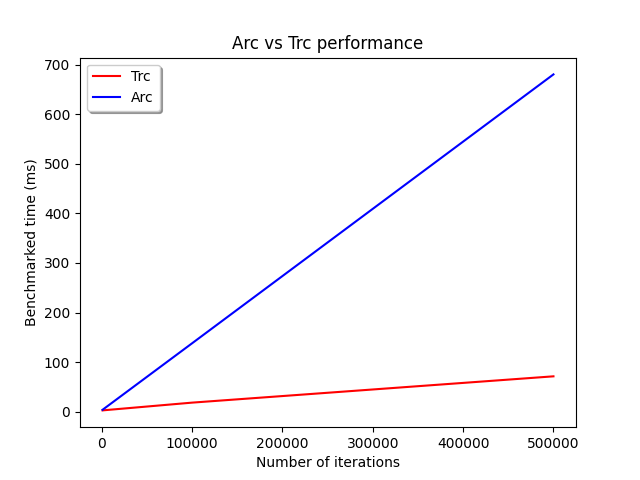
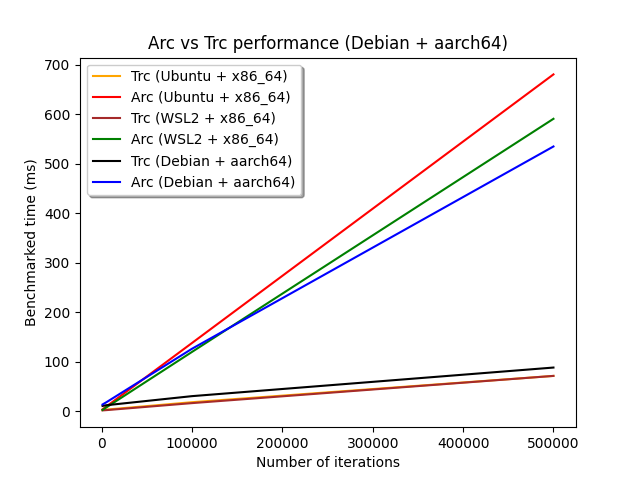
Better performance graph

diff --git a/figures/perfplot.py b/figures/perfplot.py
@@ -4,6 +4,46 @@ plt.plot([1000, 5000, 100000, 500000], [2.8, 3.48, 18.451, 71.49], color = "red"
 plt.plot([1000, 5000, 100000, 500000], [4.02, 9.415, 137.980, 680.18], color = "blue")
 plt.ylabel("Benchmarked time (ms)")
 plt.xlabel("Number of iterations")
-plt.title("Arc vs Trc performance")
+plt.title("Arc vs Trc performance (Ubuntu + x86_64)")
 plt.legend(("Trc","Arc"), shadow=True, fancybox=True)
-plt.show()
+plt.savefig("ubuntu_x84_64.png")
+plt.clf()
+
+plt.plot([1000, 5000, 100000, 500000], [10.945, 12.3, 30.666, 88.387], color = "red")
+plt.plot([1000, 5000, 100000, 500000], [13.854, 18.104, 126.330, 534.67], color = "blue")
+plt.ylabel("Benchmarked time (ms)")
+plt.xlabel("Number of iterations")
+plt.title("Arc vs Trc performance (WSL2 + x86_64)")
+plt.legend(("Trc","Arc"), shadow=True, fancybox=True)
+plt.savefig("wsl2_x84_64.png")
+plt.clf()
+
+plt.plot([1000, 5000, 100000, 500000], [1.883, 2.424, 16.585, 71.543], color = "red")
+plt.plot([1000, 5000, 100000, 500000], [2.913, 7.672, 119.950, 590.530], color = "blue")
+plt.ylabel("Benchmarked time (ms)")
+plt.xlabel("Number of iterations")
+plt.title("Arc vs Trc performance (Debian + aarch64)")
+plt.legend(("Trc","Arc"), shadow=True, fancybox=True)
+plt.savefig("debian_aarch64.png")
+plt.clf()
+
+
+
+
+
+
+plt.plot([1000, 5000, 100000, 500000], [2.8, 3.48, 18.451, 71.49], color = "orange")
+plt.plot([1000, 5000, 100000, 500000], [4.02, 9.415, 137.980, 680.18], color = "r")
+plt.plot([1000, 5000, 100000, 500000], [1.883, 2.424, 16.585, 71.543], color = "brown")
+plt.plot([1000, 5000, 100000, 500000], [2.913, 7.672, 119.950, 590.530], color = "g")
+plt.plot([1000, 5000, 100000, 500000], [10.945, 12.3, 30.666, 88.387], color = "black")
+plt.plot([1000, 5000, 100000, 500000], [13.854, 18.104, 126.330, 534.67], color = "b")
+
+plt.ylabel("Benchmarked time (ms)")
+plt.xlabel("Number of iterations")
+plt.title("Arc vs Trc performance (Debian + aarch64)")
+plt.legend(("Trc (Ubuntu + x86_64)","Arc (Ubuntu + x86_64)",
+            "Trc (WSL2 + x86_64)","Arc (WSL2 + x86_64)",
+            "Trc (Debian + aarch64)","Arc (Debian + aarch64)"), shadow=True, fancybox=True)
+plt.savefig("performance.png")
+plt.clf()

diff --git a/BENCHMARKS.md b/BENCHMARKS.md
@@ -71,6 +71,14 @@ MIRIFLAGS="-Zmiri-tree-borrows" cargo +nightly miri test
 | Trc | 30.666ms |
 | Arc | 126.330ms |
 
+### Multiple Threads Drop and Clone (500000 times)
+| Type | Mean time |
+| --- | ----------- |
+| Trc | 88.387ms |
+| Arc | 534.67ms |
+
+![Trc vs Arc performance (WSL2 x86_64)](./figures/wsl2_x86_64.png)
+
 
 ## Ubuntu 20.04 + Intel Xeon Platinum 8358 (x86_64)
 
@@ -144,6 +152,8 @@ MIRIFLAGS="-Zmiri-tree-borrows" cargo +nightly miri test
 | --- | ----------- |
 | Trc | 71.490ms |
 | Arc | 638.180ms |
+
+![Trc vs Arc performance (Ubuntu x86_64)](./figures/ubuntu_x86_64.png)
 
 
 ## Debian 6.1.20 + ARM Neoverse-N1 (aarch64)
@@ -220,3 +230,5 @@ MIRIFLAGS="-Zmiri-tree-borrows" cargo +nightly miri test
 | --- | ----------- |
 | Trc | 71.543ms |
 | Arc | 590.530ms |
+
+![Trc vs Arc performance (Debian aarch64)](./figures/debian_aarch64.png)
